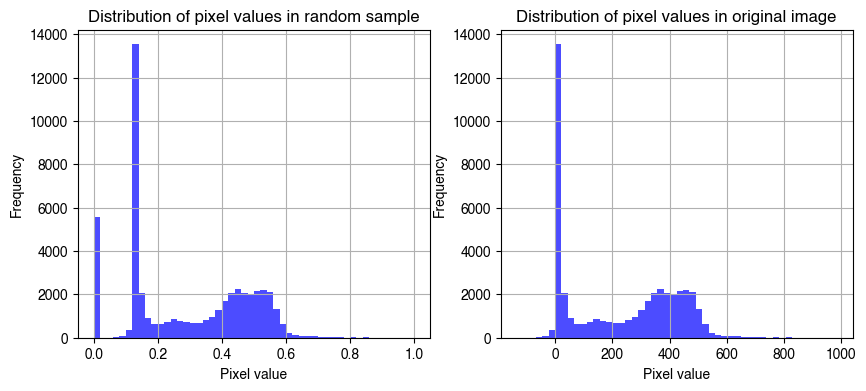
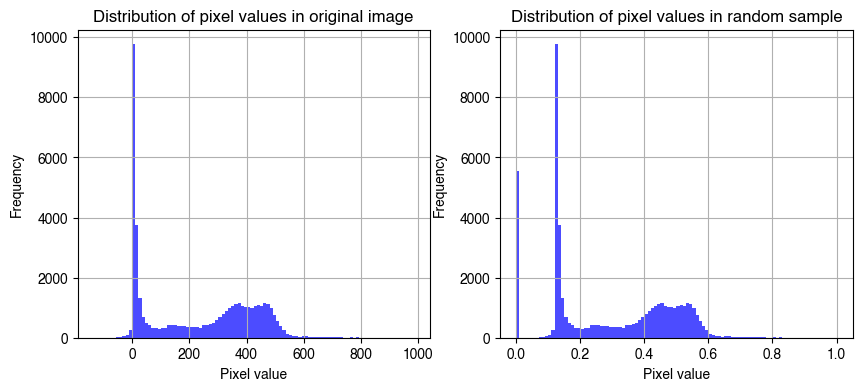
bins updated

diff --git a/src/data_explore.py b/src/data_explore.py
@@ -13,7 +13,9 @@ config = load_config(os.path.abspath(os.path.join(os.path.dirname(__file__), 'co
 dataset = MRI2D(config)
 
 org_img = np.load(os.path.abspath(os.path.join(os.path.dirname(__file__), '..', 'data', 'T1w_sub-0001_x-5.npy')))
+print(f"Original image shape: {org_img.shape}")
 sample, _ = dataset[0]
+print(f"Sample shape: {sample.shape}")
 sample2, _ = dataset[2]
 
 axial_img = plt.imread(os.path.abspath(os.path.join(os.path.dirname(__file__), '..', 'figures', 'MRI-T1-axial-image.jpg')))
@@ -66,14 +68,14 @@ plt.show()
 
 # Visualize the distribution of the data
 plt.figure(figsize=(10, 4))
-plt.subplot(1, 2, 1)
-plt.hist(sample[0].flatten(), bins=50, color='blue', alpha=0.7)
+plt.subplot(1, 2, 2)
+plt.hist(sample[0].flatten(), bins=100, color='blue', alpha=0.7)
 plt.title(f"Distribution of pixel values in random sample")
 plt.xlabel("Pixel value")
 plt.ylabel("Frequency")
 plt.grid()
-plt.subplot(1, 2, 2)
-plt.hist(org_img.flatten(), bins=50, color='blue', alpha=0.7)
+plt.subplot(1, 2, 1)
+plt.hist(org_img.flatten(), bins=100, color='blue', alpha=0.7)
 plt.title(f"Distribution of pixel values in original image")
 plt.xlabel("Pixel value")
 plt.ylabel("Frequency")
